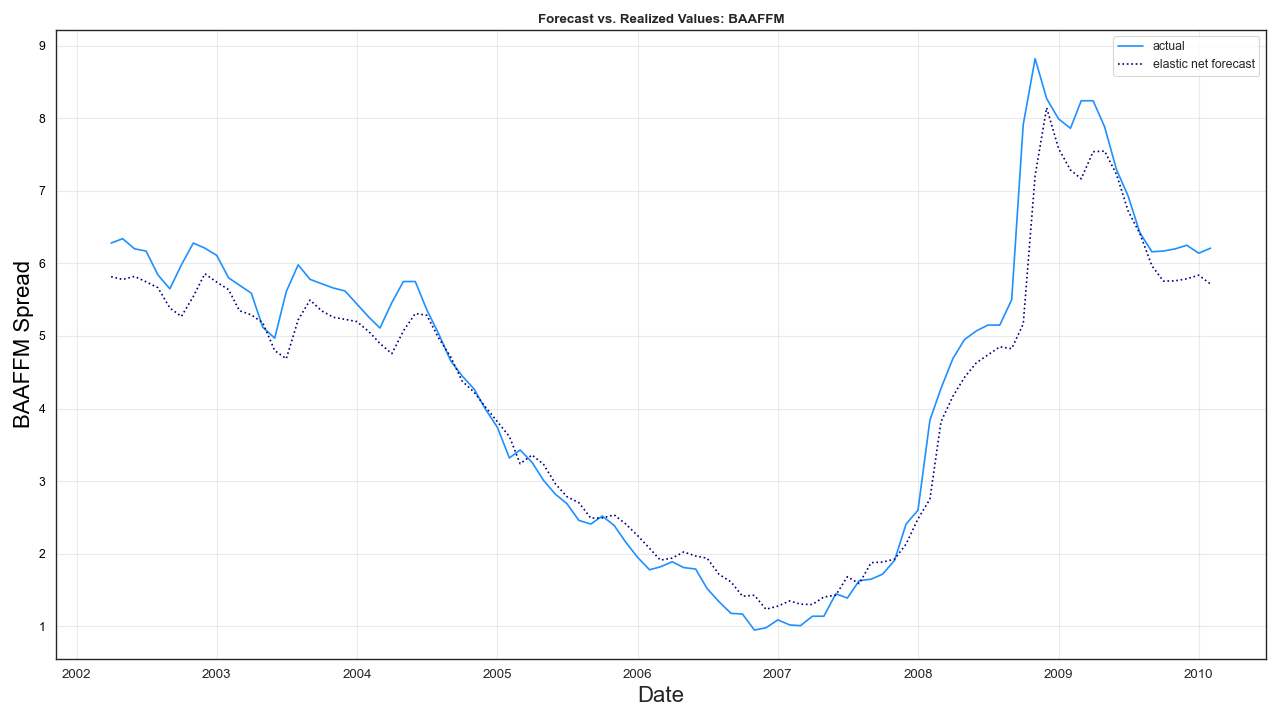
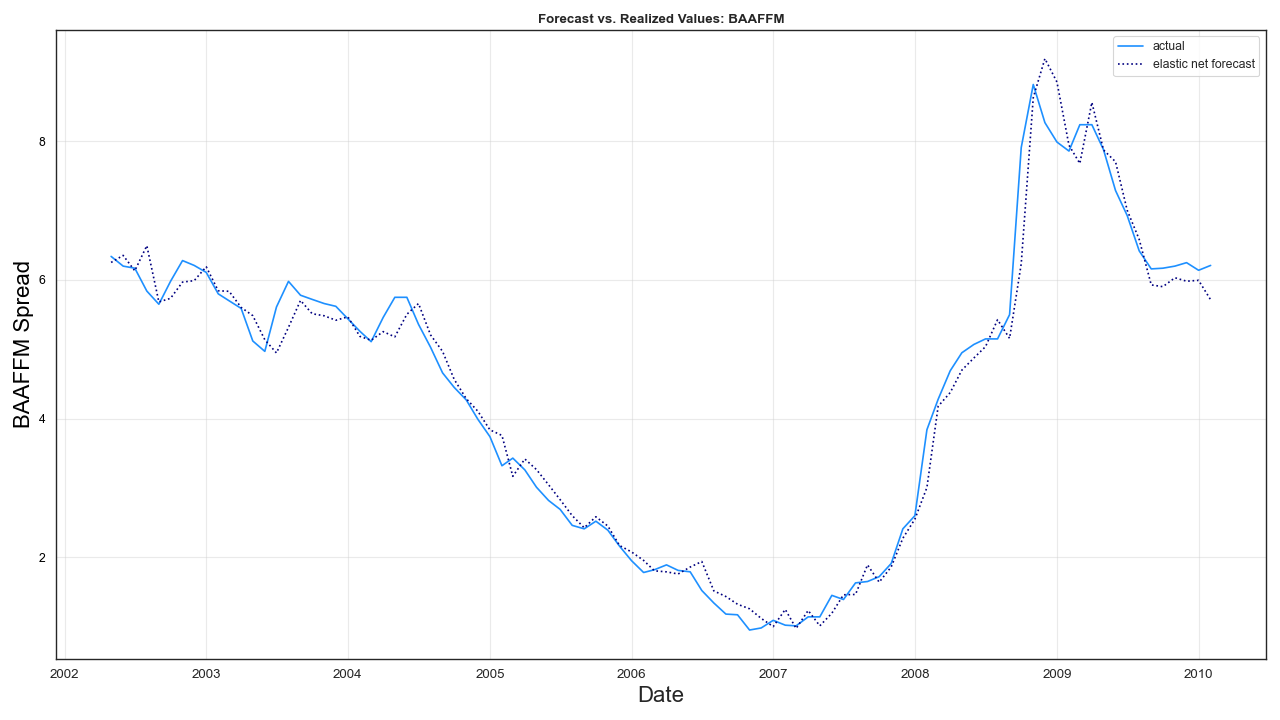
random forests

diff --git a/src/models/train_model.py b/src/models/train_model.py
@@ -1,8 +1,9 @@
 # -*- coding: utf-8 -*-
 import itertools
 from matplotlib import cm
-from sklearn.linear_model import ElasticNet, SGDRegressor, LinearRegression
+from sklearn.linear_model import ElasticNet, SGDRegressor, LinearRegression, Ridge
 from pathlib import Path
+from sklearn.ensemble import RandomForestRegressor
 from sklearn.svm import SVR
 import pickle
 from sklearn.metrics import explained_variance_score, mean_squared_error, r2_score
@@ -28,7 +29,7 @@ from pandas.plotting import register_matplotlib_converters
 
 BUCKET = 'macro-forecasting1301' # s3 bucket name
 TRAINING_SAMPLE_PERCENT = 0.8 # for both classical and ml models, % of sample to use as training/val. 1-% is test set.
-VALIDATION_SAMPLE_PERCENT = 0.95 # for both classical and ml models, % of the training data to use as validation set in walk-forward validation
+VALIDATION_SAMPLE_PERCENT = 0.8 # for both classical and ml models, % of the training data to use as validation set in walk-forward validation
 
 class ClassicalModels():
 
@@ -304,9 +305,9 @@ class MLModels():
         self.forecasts_EN = {}
         self.EN_models = {}
 
-        self.error_metrics_SVR = {}
-        self.forecasts_SVR = {}
-        self.SVR_models = {}
+        self.error_metrics_RF = {}
+        self.forecasts_RF = {}
+        self.RF_models = {}
 
     def get_data(self):
 
@@ -410,7 +411,7 @@ class MLModels():
                         'R2': R2
                     })
 
-                if time_step == (nobs-n_init_training-1):
+                if time_step == (nobs-n_init_training-2):
                     fig, ax1 = plt.subplots(1,1, figsize=(16,9), dpi= 80)
                     colormap = plt.get_cmap('seismic')
                     ax1.set_prop_cycle(cycler('color', [colormap(k) for k in np.linspace(0, 1, 4)]) +
@@ -453,15 +454,18 @@ class MLModels():
             'forecast_t': list()
         }
         EN_params = {
-            'l1_ratio': np.linspace(0.8, 1.0, 11),#np.linspace(0.1,1,11),
-            'alpha': np.linspace(0.1,1,11)
+            'l1_ratio': np.linspace(0.001, 1.0, 11),#np.linspace(0.1,1,11),
+            'alpha': np.linspace(0.0001,1.0,11)
         }
         EN_models = list()
+        scaler_X, scaler_y = StandardScaler(), StandardScaler()
 
         for lag_val in range(1, maxlags+1):
 
             Y = self.reframed_dfs['lag_'+str(lag_val)].iloc[:, -1]
             X = self.reframed_dfs['lag_'+str(lag_val)].iloc[:, 0:-2]
+            X = X[[c for c in X.columns if 'var94' in c or 'var8(t-1)' in c or 'var75(t-1)' in c]]
+
             dates = self.reframed_dfs['lag_'+str(lag_val)].iloc[:, -2]
             
             # Get the number of initial training observations
@@ -469,8 +473,7 @@ class MLModels():
             n_init_training = int(nobs * VALIDATION_SAMPLE_PERCENT)
             
             for time_step in range(0, (nobs-n_init_training-1)):
-                scaler_X, scaler_y = StandardScaler(), StandardScaler()
-
+                
                 # Create model for training sample, gridsearch and fit parameters
                 training_X, training_Y = X.iloc[:n_init_training+time_step], Y.iloc[:n_init_training+time_step]
                 training_X_preprocessed, training_Y_preprocessed = pd.DataFrame(scaler_X.fit_transform(training_X.values)), pd.DataFrame(scaler_y.fit_transform(training_Y.values.reshape(-1, 1)))
@@ -478,7 +481,7 @@ class MLModels():
                 test_X_preprocessed = pd.DataFrame(scaler_X.transform(test_X.values.reshape(1, -1)))
                 
                 for ratios in itertools.product(EN_params['l1_ratio'], EN_params['alpha']):
-                    regr = ElasticNet(random_state=42, l1_ratio=ratios[0], alpha=ratios[1], warm_start=True, fit_intercept=True)
+                    regr = ElasticNet(random_state=42, l1_ratio=ratios[0], alpha=ratios[1], fit_intercept=False)
                     regr.fit(training_X_preprocessed, training_Y_preprocessed)
 
                     values = [
@@ -545,28 +548,31 @@ class MLModels():
             plt.close()
 
         self.logger.info('plotted and saved png files of error metrics in /reports/figures for elastic net hyperparameters')
-
-    def train_SVR_reg(self, maxlags):
-
-        '''Trains support vector regression models using walk forward validation across a range of hyperparameters C, gamma, and lag order. For each lag value, steps through time
-        steps and trains C/gamma variations, stores forecasts. Calculates MSE for each C/gamma/lag order order possibility. Manual tuning on optimal kernel done non-programmatically'''
+ 
+    def train_random_forests(self, maxlags):
+    
+        '''Trains random forests models using walk forward validation across a range of hyperparameters max depth, estimator count, and lag order. For each lag value, steps through time
+        steps and trains depth/estimator variations, stores forecasts. Calculates MSE for each depth/estimators/lag order possibility.'''
         forecasts = {
-            'C':  list(),
-            'gamma': list(),
+            'max_depth':  list(),
+            'estimator_count': list(),
             'lag': list(),
             'forecast': list(),
             'forecast_t': list()
         }
-        SVR_params = {
-            'C': [1e3, 1e4, 1e5, 1e6],
-            'gamma': [1e-3, 1e-4, 1e-5]
+        RF_params = {
+            'max_depth': np.linspace(4, 7, 3),#np.linspace(0.1,1,11),
+            'estimator_count': np.linspace(1, 3, 3)
         }
-        SVR_models = list()
+        RF_models = list()
+        scaler_X, scaler_y = StandardScaler(), StandardScaler()
 
         for lag_val in range(1, maxlags+1):
 
             Y = self.reframed_dfs['lag_'+str(lag_val)].iloc[:, -1]
             X = self.reframed_dfs['lag_'+str(lag_val)].iloc[:, 0:-2]
+            X = X[[c for c in X.columns if 'var94' in c or 'var8(t-1)' in c or 'var75(t-1)']]
+
             dates = self.reframed_dfs['lag_'+str(lag_val)].iloc[:, -2]
             
             # Get the number of initial training observations
@@ -574,17 +580,16 @@ class MLModels():
             n_init_training = int(nobs * VALIDATION_SAMPLE_PERCENT)
             
             for time_step in range(0, (nobs-n_init_training-1)):
-                scaler_X, scaler_y = StandardScaler(), StandardScaler()
-
+                
                 # Create model for training sample, gridsearch and fit parameters
                 training_X, training_Y = X.iloc[:n_init_training+time_step], Y.iloc[:n_init_training+time_step]
                 training_X_preprocessed, training_Y_preprocessed = pd.DataFrame(scaler_X.fit_transform(training_X.values)), pd.DataFrame(scaler_y.fit_transform(training_Y.values.reshape(-1, 1)))
                 test_X = X.iloc[n_init_training+1+time_step, :]
                 test_X_preprocessed = pd.DataFrame(scaler_X.transform(test_X.values.reshape(1, -1)))
                 
-                for ratios in itertools.product(SVR_params['C'], SVR_params['gamma']):
-                    regr = SVR(C=ratios[0], gamma=ratios[1])
-                    regr.fit(training_X_preprocessed, training_Y_preprocessed)
+                for ratios in itertools.product(RF_params['max_depth'], RF_params['estimator_count']):
+                    regr = RandomForestRegressor(random_state=42, max_depth=int(ratios[0]), n_estimators=int(ratios[1]), bootstrap=True, warm_start=True)
+                    regr.fit(training_X_preprocessed, training_Y_preprocessed.values[:, 0])
 
                     values = [
                         ratios[0],
@@ -593,32 +598,65 @@ class MLModels():
                         dates.iloc[n_init_training+1+time_step],
                         scaler_y.inverse_transform(regr.predict(test_X_preprocessed))[0]
                     ]
-                    [forecasts[k].append(v) for k, v in zip(['C', 'gamma', 'lag', 'forecast_t', 'forecast'], values)]
+                    [forecasts[k].append(v) for k, v in zip(['max_depth', 'estimator_count', 'lag', 'forecast_t', 'forecast'], values)]
 
                     # save models
                     if time_step == (nobs-n_init_training-2):
-                        SVR_models.append({
-                            'C': ratios[0],
-                            'gamma': ratios[1],
+                        RF_models.append({
+                            'max_depth': ratios[0],
+                            'estimator_count': ratios[1],
                             'lag': lag_val,
                             'model': regr
                             })
-            self.logger.info('completed a full hyperparamter search / training for a lag val of SVR')
+                print('trained one time step for hyperparameters grid, time step=', time_step, ' out of: ', (nobs-n_init_training-1))
+            self.logger.info('completed a full hyperparamter search / training for a lag val of random forests')
 
         forecasts = pd.DataFrame(forecasts)
         actuals = pd.concat([Y, dates], axis=1)
         actuals.columns = ['t_actual', 'sasdate']
-        self.SVR_forecasts = pd.merge(forecasts, actuals, left_on='forecast_t', right_on='sasdate', how='left')
+        self.RF_forecasts = pd.merge(forecasts, actuals, left_on='forecast_t', right_on='sasdate', how='left')
         
-        self.SVR_forecasts['forecast_t'] = pd.to_datetime(self.SVR_forecasts['forecast_t'])
+        self.RF_forecasts['forecast_t'] = pd.to_datetime(self.RF_forecasts['forecast_t'])
         # error storage
-        self.error_metrics_SVR = self.SVR_forecasts.groupby(['C', 'gamma', 'lag']).apply(self._mse).reset_index()
-        print(self.error_metrics_SVR)
+        self.error_metrics_RF = self.RF_forecasts.groupby(['max_depth', 'estimator_count', 'lag']).apply(self._mse).reset_index()
         # save dictionary of models to disk for later use
-        with open(Path(self.models_path, 'SVR_reg_models').with_suffix('.pkl'), 'wb') as handle:
-            pickle.dump(self.SVR_models, handle)
-        with open(Path(self.models_path, 'scaler_SVR_reg').with_suffix('.pkl'), 'wb') as handle:
+        print(self.error_metrics_RF)
+        with open(Path(self.models_path, 'random_forests_models').with_suffix('.pkl'), 'wb') as handle:
+            pickle.dump(self.RF_models, handle)
+        with open(Path(self.models_path, 'scaler_random_forests').with_suffix('.pkl'), 'wb') as handle:
             pickle.dump(scaler_X, handle) # last one in memory; full val/train sample
+
+    def plot_RF_metrics(self, maxlags):
+
+        '''Plots the error metrics of elastic nets, 1 plot per lag that shows the l1/l2 MSE'''
+        for jj in range(1, maxlags+1):
+
+            fig = plt.figure()
+            one_lag = self.error_metrics_EN[self.error_metrics_EN.lag == jj]
+            X_one, Y_one = np.array(one_lag.l1_ratio), np.array(one_lag.alpha)
+            Z_one = np.array(one_lag.mse)
+
+            ax = fig.gca(projection='3d')
+
+            # Plot the surface.
+            surf1 = ax.plot_trisurf(X_one, Y_one, Z_one, cmap=cm.coolwarm,
+                                linewidth=0, antialiased=False, alpha=0.8)
+
+            # Add a color bar which maps values to colors.
+            fig.colorbar(surf1, shrink=0.5, aspect=5)
+
+            plt.xlabel('l1 ratio', fontsize=9)
+            plt.ylabel('l2 ratio (alpha)', fontsize=9)
+            plt.suptitle('Grid search for elastic net, lag order=' + str(jj))
+            plt.title('MSE')
+
+            fig.tight_layout()
+            plt.legend()
+            pth = Path(self.graphics_path, 'elasticnet_hyperparams_'+str(jj)).with_suffix('.png')
+            fig.savefig(pth)
+            plt.close()
+
+        self.logger.info('plotted and saved png files of error metrics in /reports/figures for elastic net hyperparameters')
 
     def plot_ML_forecasts(self):
 
@@ -662,11 +700,11 @@ class MLModels():
         All model optimizition is done programmatically with hyperparameter grid search (unlike manual selection of lag order in Classical models)'''
         self.get_data()
         self.splice_test_data()
-        self.reframe_train_val_df(maxlags=4)
-        self.explore_dim_reduce(maxlags=1)
-        #self.train_elastic_net(maxlags=2)
-        #self.plot_EN_metrics(maxlags=2)
-        #self.train_SVR_reg(maxlags=2)
+        self.reframe_train_val_df(maxlags=20)
+        #self.explore_dim_reduce(maxlags=1)
+        #self.train_elastic_net(maxlags=9)
+        #self.plot_EN_metrics(maxlags=9)
+        self.train_random_forests(maxlags=2)
         #self.plot_ML_forecasts()
 
 def main():
